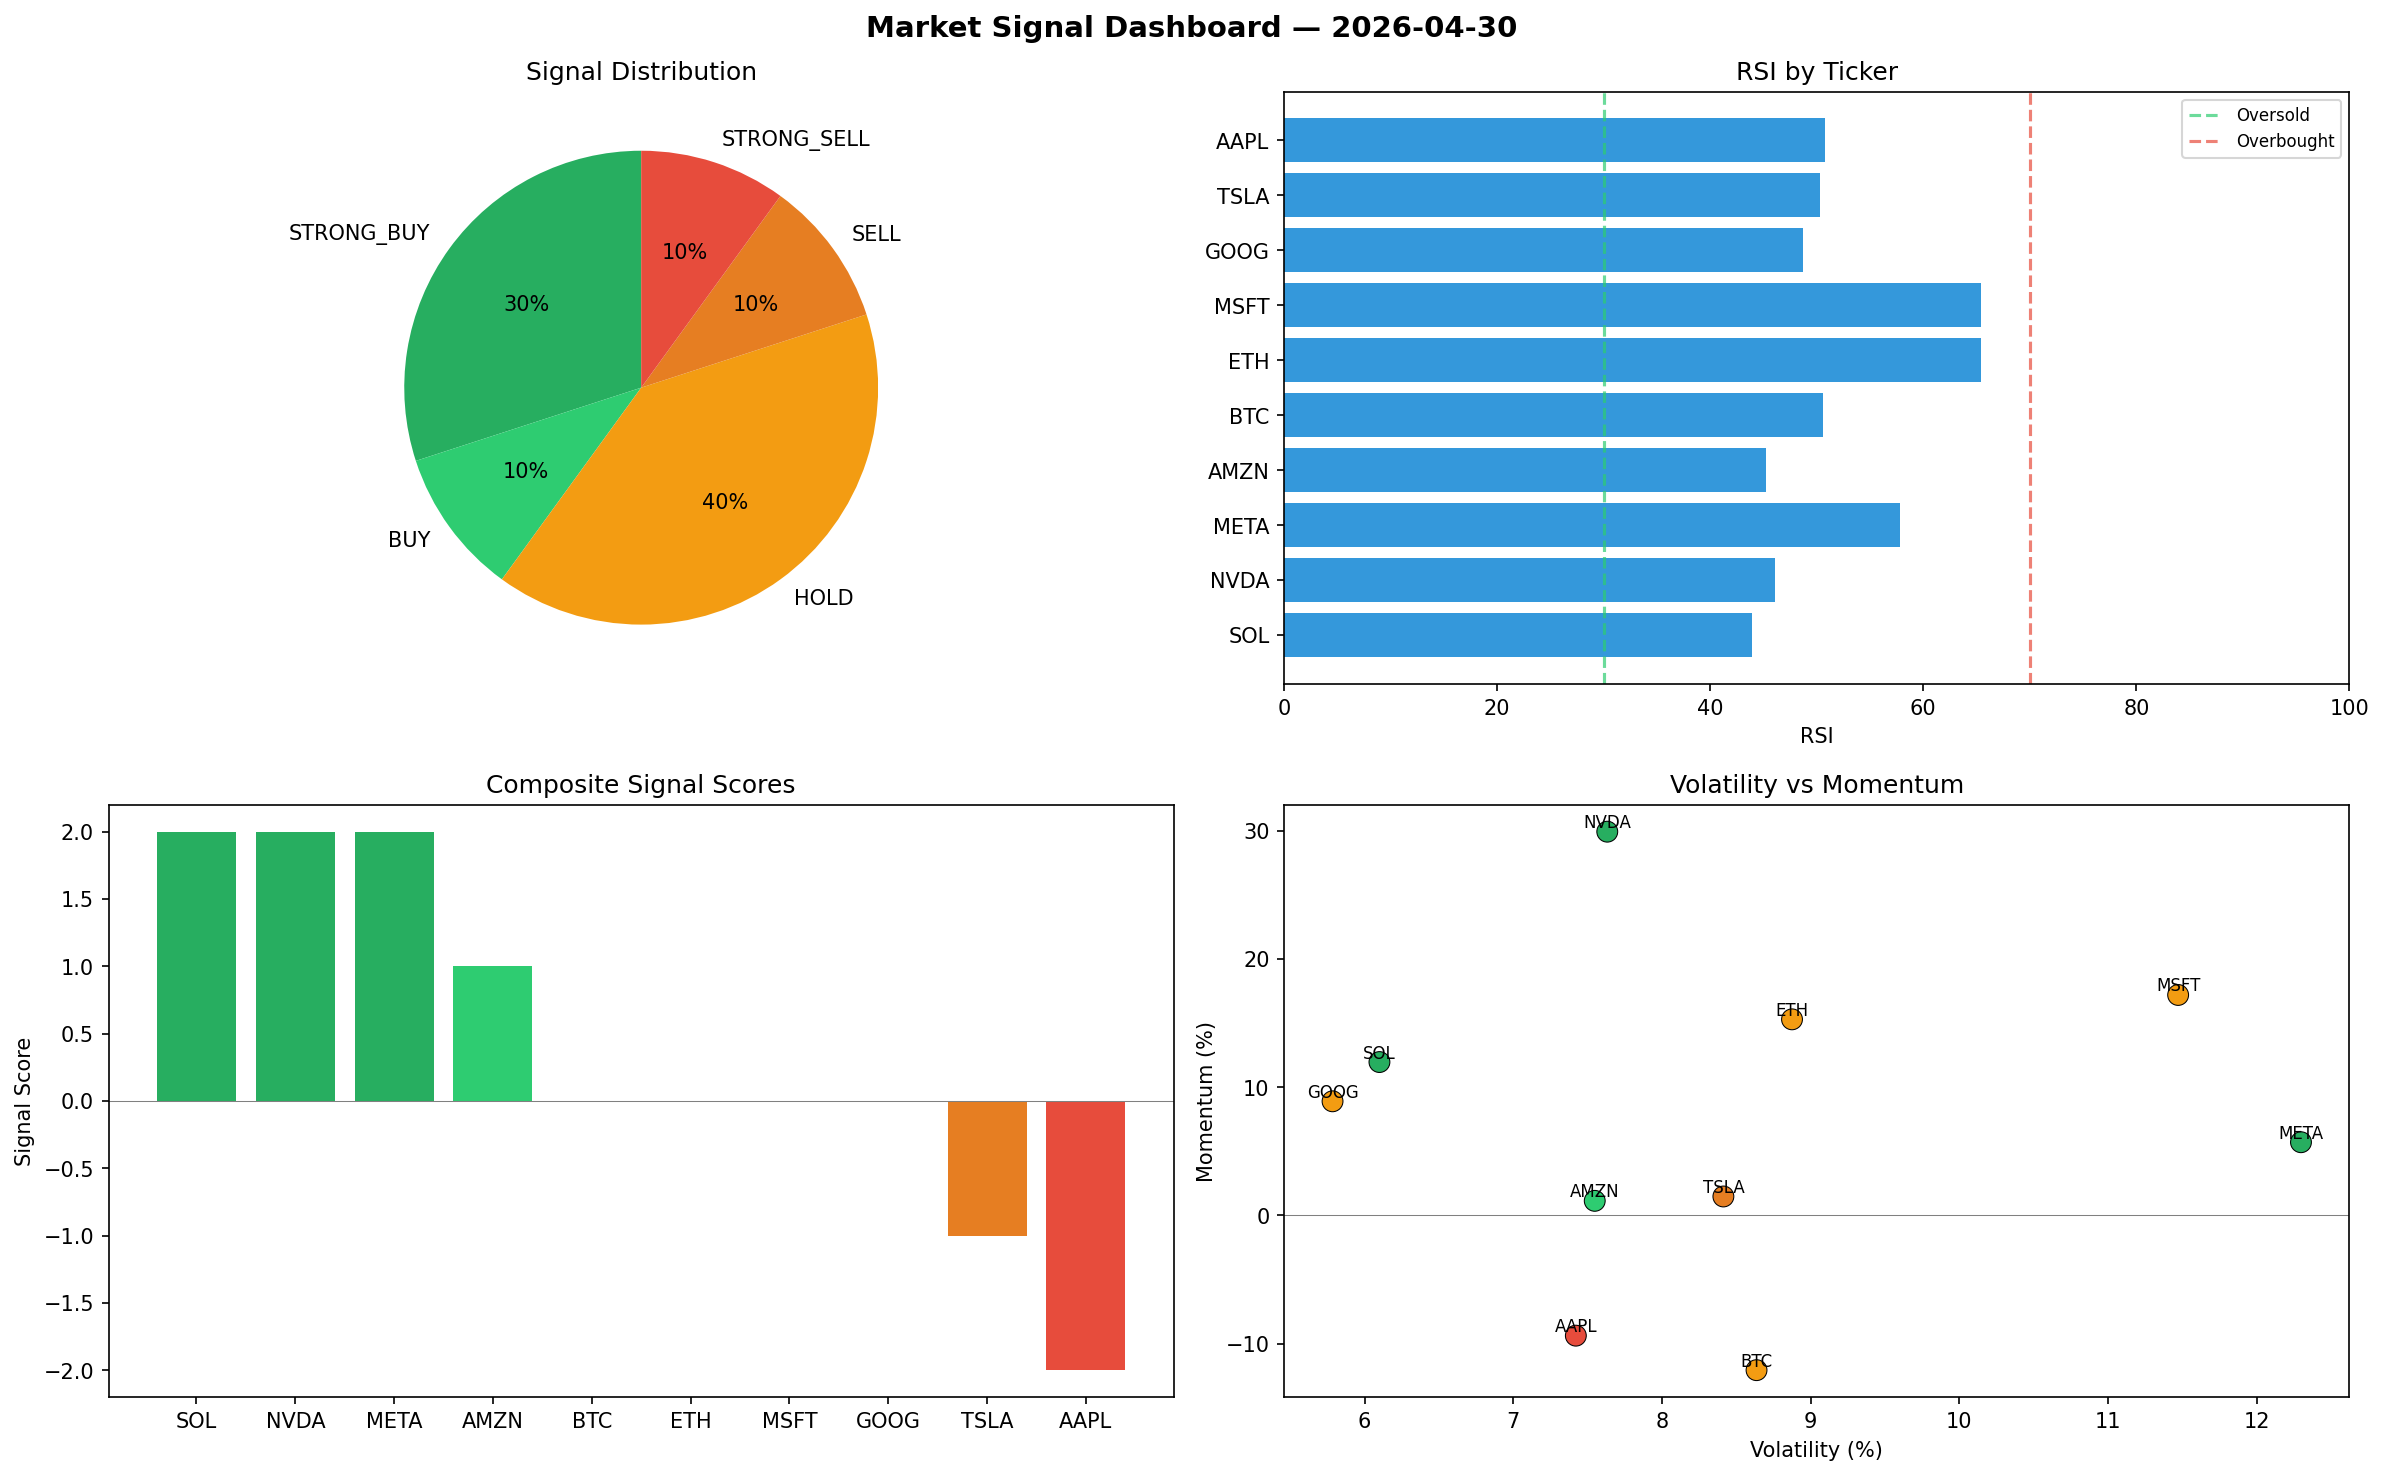
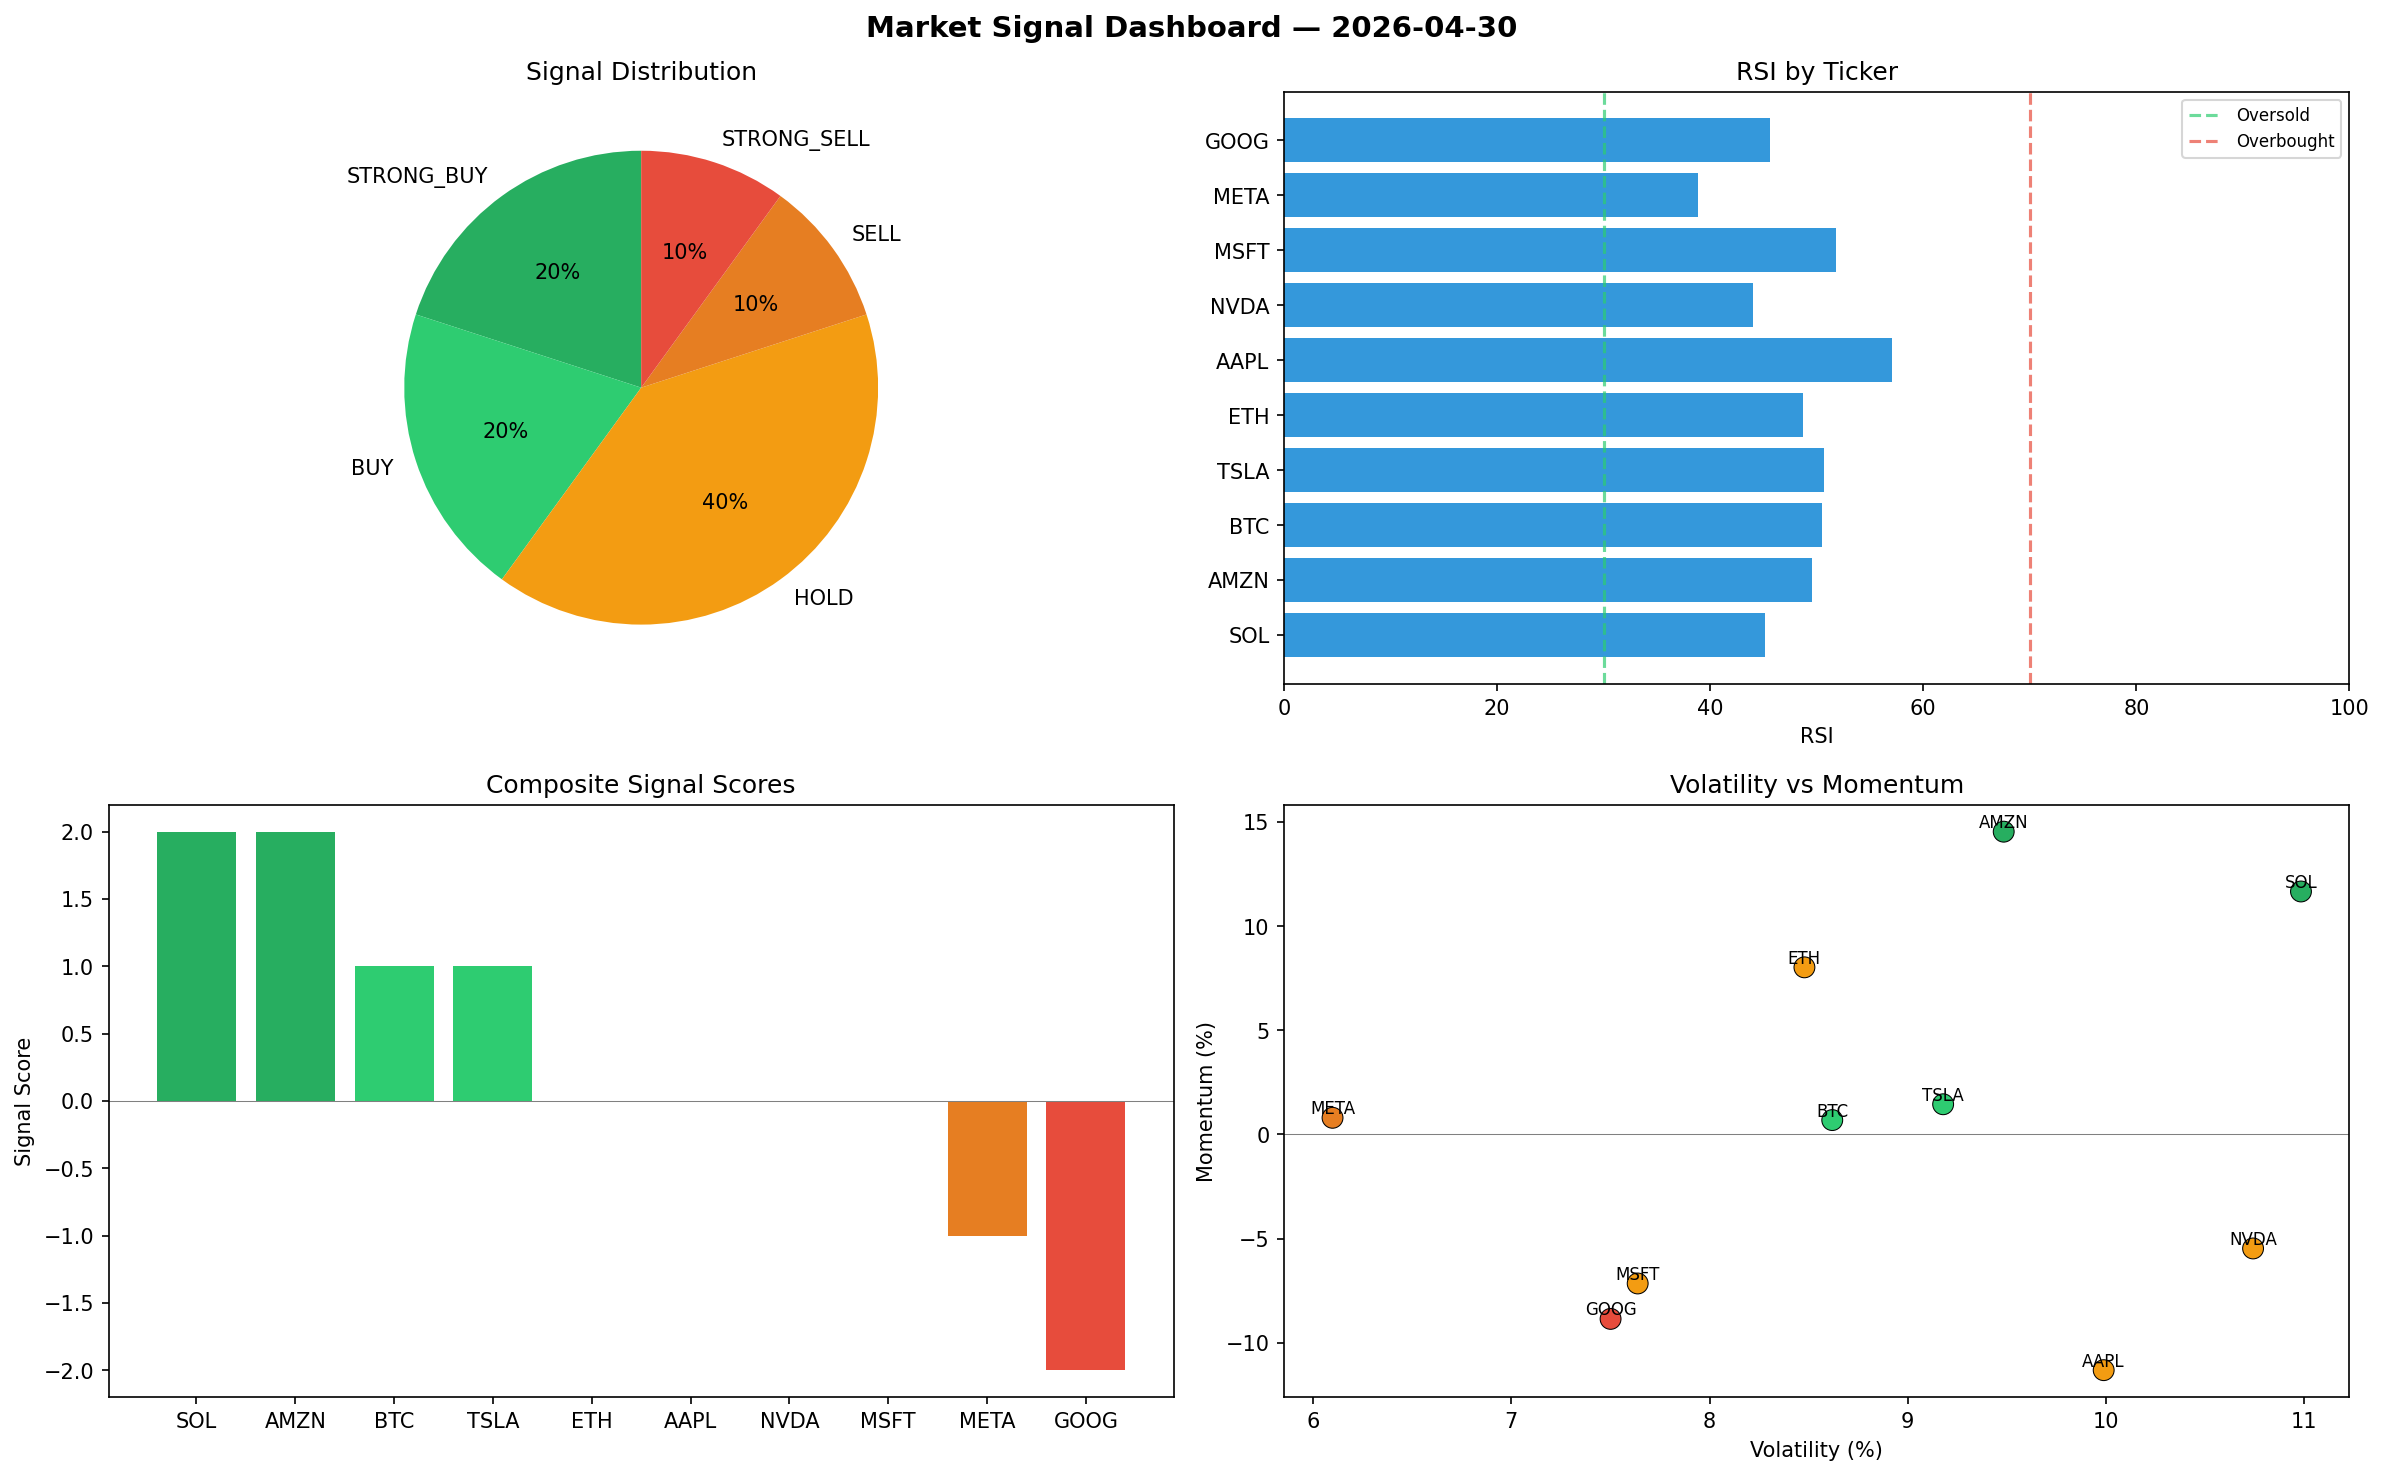
automated-bots: market signals 2026-04-30T16:00

diff --git a/logs/2026-04-30.md b/logs/2026-04-30.md
@@ -1,6 +1,6 @@
 # Market Signal Report — 2026-04-30
 
-**Run ID:** `180a8ff1b1` | **Buy:** 4 | **Sell:** 2 | **Hold:** 4
+**Run ID:** `1156aa4e2b` | **Buy:** 4 | **Sell:** 2 | **Hold:** 4
 
 ![Dashboard](2026-04-30_dashboard.png)
 
@@ -8,28 +8,28 @@
 
 | Ticker | Price | Signal | Score | RSI | Momentum | Confidence |
 |--------|-------|--------|-------|-----|----------|------------|
-| SOL | $2934.55 | **STRONG_BUY** | 2 | 43.89 | 0.1196 | 0.5 |
-| NVDA | $4370.01 | **STRONG_BUY** | 2 | 46.08 | 0.2992 | 0.5 |
-| META | $1778.35 | **STRONG_BUY** | 2 | 57.79 | 0.0571 | 0.5 |
-| AMZN | $891.76 | **BUY** | 1 | 45.21 | 0.0114 | 0.25 |
-| BTC | $1094.92 | **HOLD** | 0 | 50.6 | -0.1206 | 0.0 |
-| ETH | $4841.63 | **HOLD** | 0 | 65.46 | 0.1529 | 0.0 |
-| MSFT | $1462.56 | **HOLD** | 0 | 65.39 | 0.1719 | 0.0 |
-| GOOG | $2863.82 | **HOLD** | 0 | 48.68 | 0.089 | 0.0 |
-| TSLA | $205.16 | **SELL** | -1 | 50.32 | 0.0148 | 0.25 |
-| AAPL | $3420.37 | **STRONG_SELL** | -2 | 50.73 | -0.0937 | 0.5 |
+| SOL | $2078.53 | **STRONG_BUY** | 2 | 45.12 | 0.1166 | 0.5 |
+| AMZN | $4267.88 | **STRONG_BUY** | 2 | 49.58 | 0.1453 | 0.5 |
+| BTC | $2364.24 | **BUY** | 1 | 50.46 | 0.0069 | 0.25 |
+| TSLA | $1110.99 | **BUY** | 1 | 50.68 | 0.0145 | 0.25 |
+| ETH | $4063.22 | **HOLD** | 0 | 48.68 | 0.0802 | 0.0 |
+| AAPL | $114.78 | **HOLD** | 0 | 57.06 | -0.1131 | 0.0 |
+| NVDA | $1586.34 | **HOLD** | 0 | 43.98 | -0.0547 | 0.0 |
+| MSFT | $4400.04 | **HOLD** | 0 | 51.83 | -0.0715 | 0.0 |
+| META | $149.53 | **SELL** | -1 | 38.89 | 0.008 | 0.25 |
+| GOOG | $987.47 | **STRONG_SELL** | -2 | 45.63 | -0.0885 | 0.5 |
 
 ## Delta vs Yesterday
 
 | Ticker | Today | Yesterday | Price Change | Signal Changed |
 |--------|-------|-----------|-------------|----------------|
-| SOL | STRONG_BUY | SELL | 📉 -38.68% | ⚠ YES |
-| NVDA | STRONG_BUY | STRONG_BUY | 📈 7.58% | — |
-| META | STRONG_BUY | STRONG_BUY | 📉 -48.9% | — |
-| AMZN | BUY | STRONG_SELL | 📉 -52.27% | ⚠ YES |
-| BTC | HOLD | STRONG_BUY | 📉 -71.63% | ⚠ YES |
-| ETH | HOLD | STRONG_SELL | 📈 502.73% | ⚠ YES |
-| MSFT | HOLD | STRONG_SELL | 📉 -68.4% | ⚠ YES |
-| GOOG | HOLD | HOLD | 📉 -37.41% | — |
-| TSLA | SELL | STRONG_BUY | 📉 -82.76% | ⚠ YES |
-| AAPL | STRONG_SELL | HOLD | 📈 724.66% | ⚠ YES |
+| SOL | STRONG_BUY | SELL | 📉 -56.57% | ⚠ YES |
+| AMZN | STRONG_BUY | STRONG_SELL | 📈 128.45% | ⚠ YES |
+| BTC | BUY | STRONG_BUY | 📉 -38.74% | ⚠ YES |
+| TSLA | BUY | STRONG_BUY | 📉 -6.62% | ⚠ YES |
+| ETH | HOLD | STRONG_SELL | 📈 405.83% | ⚠ YES |
+| AAPL | HOLD | HOLD | 📉 -72.33% | — |
+| NVDA | HOLD | STRONG_BUY | 📉 -60.95% | ⚠ YES |
+| MSFT | HOLD | STRONG_SELL | 📉 -4.93% | ⚠ YES |
+| META | SELL | STRONG_BUY | 📉 -95.7% | ⚠ YES |
+| GOOG | STRONG_SELL | HOLD | 📉 -78.42% | ⚠ YES |
